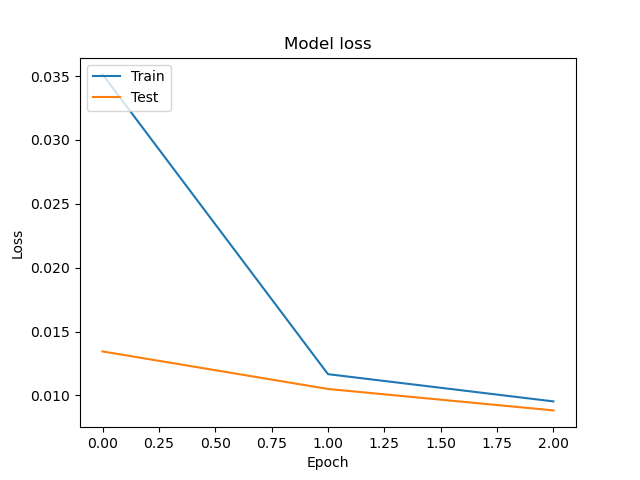
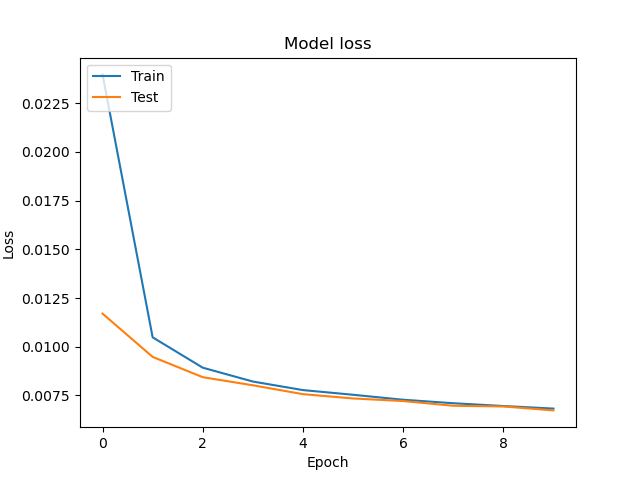
plot image e prediction

diff --git a/2_Convolutional Autoencoder/nn.py b/2_Convolutional Autoencoder/nn.py
@@ -1,3 +1,4 @@
+from PIL.Image import Image
 from keras import models
 from keras import layers
 import config as cfg
@@ -6,6 +7,7 @@ import janitor as jn
 import tensorflow as tf
 import numpy as np
 import matplotlib.pyplot as plt
+from tensorflow.keras.applications.resnet50 import preprocess_input, decode_predictions
 from keras.preprocessing.image import ImageDataGenerator
 from sklearn.metrics import accuracy_score
 from keras.utils import to_categorical
@@ -89,12 +91,26 @@ class NN:
 
     def test_model(self ):
 
-        #TODO make it choose 1 image at time
-        # val_datagen = ImageDataGenerator(rescale=1. / 255)
-        # val_generator = val_datagen.flow_from_dataframe(self.test_dataset[:,:])
-        #
-        #
-        # x_test, y_test = val_generator.next()
+        # TODO make it choose 1 image at time
+        i=0
+        f, ax = plt.subplots(1, 10, figsize=(20, 10))
+        while i<10:
+            
+            ax[i].imshow(self.test_dataset[i])
+
+            # img_preprocessed = preprocess_input(self.test_dataset[i])
+            img_batch = np.expand_dims(self.test_dataset[i], axis=0)
+            i += 1
+            prediction = self.model.predict(img_batch)
+            print("prediction",prediction)
+            ax[i].imshow(prediction)
+            i += 1
+
+            # y_pred_conf = self.model.predict(self.test_dataset[i])
+            # y_pred = np.argmax(y_pred_conf, axis=1)
+            # print(y_pred)
+
+
         # y_pred_conf = self.model.predict(x_test)  # return probabilities of each class
         # y_pred = np.argmax(y_pred_conf, axis=1)
         # y_label = np.argmax(y_test, axis=1)
@@ -110,7 +126,7 @@ class NN:
         #                     (str(y_pred[j]), np.max(y_pred_conf[j]),
         #                      str(y_label[j]), y_pred_conf[j][(y_label[j])], fontweight="bold", size=20))
         # plt.savefig("img/pred.png")
-        # plt.show()
+        plt.show()
 
 
 

diff --git a/2_Convolutional Autoencoder/main.py b/2_Convolutional Autoencoder/main.py
@@ -67,7 +67,7 @@ def main():
 
     hist,layers = cnn.train_model()
     for layer in layers:
-        print(layer.output_shape)
+        print(layer.input_shape, layer)
     plot_hist(hist)
     plt.savefig("img/plot_hist.png")
     plt.show()

diff --git a/2_Convolutional Autoencoder/config.py b/2_Convolutional Autoencoder/config.py
@@ -6,7 +6,7 @@ general = {
 }
 
 nn = {
-    "epochs": 3,
+    "epochs": 10,
     "batch_size": 250,
     "optimizer": "Adam",
     "loss": "mean_squared_error",
